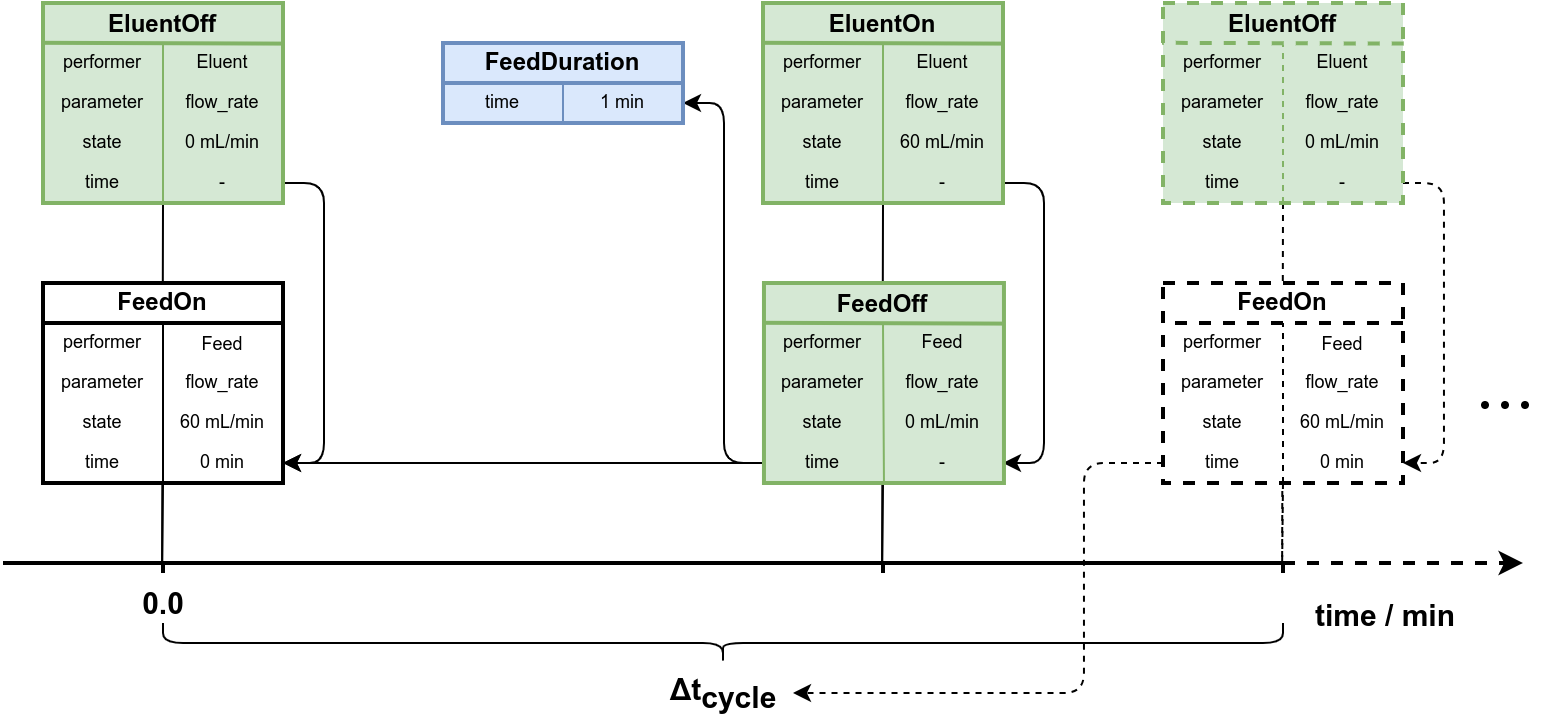
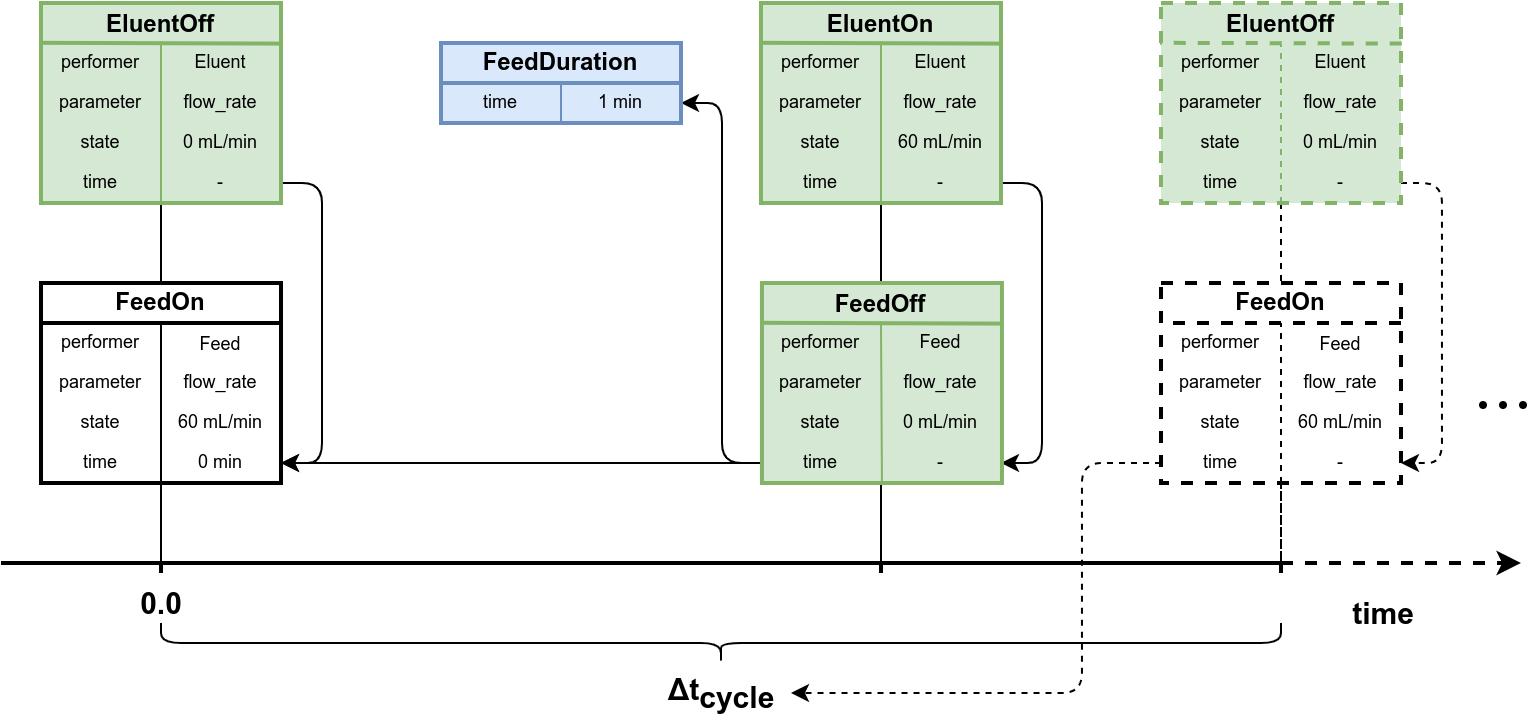
Update process

diff --git a/doc/04_implementation/01_process.md b/doc/04_implementation/01_process.md
@@ -1,18 +1,17 @@
 (process_model)=
 # Process model
 
-The starting point of process development is the setup of a {class}`~CADETProcess.processModel.Process` (see {numref}`framework_overview`) model, i.e., the specific configuration of the chromatographic process.
-This is realized using {class}`UnitOperations <CADETProcess.processModel.UnitBaseClass>` as building blocks.
-Multiple {class}`UnitOperations <CADETProcess.processModel.UnitBaseClass>` can be connected in a {class}`~CADETProcess.processModel.FlowSheet`, which describes the mass transfer between the individual units.
-Finally, dynamic {class}`Events <CADETProcess.dynamicEvents.Event>` can be defined to model dynamic changes of model parameters, including flow rates and system connectivity.
-In this chapter, an overview of the different components of the {class}`~CADETProcess.processModel.Process` is given.
+The starting point of process development is the setup of a {class}`~CADETProcess.processModel.Process` model, which represents the specific chromatographic process at hand.
+It is composed of {class}`UnitOperations <CADETProcess.processModel.UnitBaseClass>`, which define the physico-chemical behavior of individual apparatus components.
+Multiple unit operations can be connected in a {class}`~CADETProcess.processModel.FlowSheet`, which describes the mass transfer between them.
+Time-dependent changes to model parameters, including flow rates and system connectivity, are defined using {class}`Events <CADETProcess.dynamicEvents.Event>`.
+The following sections describe each of these building blocks in turn.
 
 (unit_operations)=
 ## Unit operations
 
 A {class}`UnitOperation <CADETProcess.processModel.UnitBaseClass>` represents the physico-chemical behavior of an apparatus and holds the model parameters.
-{numref}`unit_operation` displays a UML (Unified Modeling Language) diagram illustrating the unit operation's structure and relationships.
-A UML diagram is a visual representation that depicts the structure, relationships, and interactions of components or objects in a system using standardized symbols and notations {cite}`Rumbaugh2010`.
+{numref}`unit_operation` displays a UML class diagram (see {numref}`uml`) illustrating the unit operation's structure and relationships.
 
 ```{figure} ./figures/unit_operation.png
 :name: unit_operation
@@ -27,12 +26,12 @@ Both are defined as abstract interfaces where concrete implementations specify t
 For unit operations in which binding models or reactions are not modeled, the `NoBinding` and `NoReaction` classes are used.
 ```
 
-To ensure that all parts of the process have the same number of components, a {class}`~CADETProcess.processModel.ComponentSystem` needs to be configured and added to all unit operations.
-These components can also be named, which later automatically adds legends to the plot methods of CADET-Process.
+To ensure consistency across all parts of the process, a {class}`~CADETProcess.processModel.ComponentSystem` must be configured and assigned to all unit operations.
+This system defines the components involved in the separation, including their names and optionally physical properties such as charge or molar mass.
+Component names are automatically used to generate legends in CADET-Process plot methods.
 All unit operations can be associated with {class}`BindingModels <CADETProcess.processModel.BindingBaseClass>` that describe the interaction of components with surfaces or chromatographic stationary phases.
-For this purpose, a variety of equilibrium relations can be selected.
-These include the simple {class}`~CADETProcess.processModel.Linear` adsorption isotherm, competitive forms of the {class}`~CADETProcess.processModel.Langmuir` and the {class}`~CADETProcess.processModel.BiLangmuir` models, as well as the competitive {class}`~CADETProcess.processModel.StericMassAction` law.
-Moreover, {class}`ReactionModels <CADETProcess.processModel.ReactionBaseClass>` can be used to model chemical reactions.
+A variety of equilibrium relations are available, including the simple {class}`~CADETProcess.processModel.Linear` adsorption isotherm, the competitive {class}`~CADETProcess.processModel.Langmuir` model, and the {class}`~CADETProcess.processModel.StericMassAction` law (see {numref}`isotherm_models`).
+Moreover, {class}`ReactionModels <CADETProcess.processModel.ReactionBaseClass>` can be used to model chemical reactions (see {numref}`reaction_models`).
 
 (flow_sheet)=
 ## Flow sheet
@@ -41,7 +40,7 @@ The connectivity of unit operations is defined in the {class}`~CADETProcess.proc
 This class provides a directed graph structure that allows for the simple definition of configurations for multi-column or reactor-separator networks, even when they are cyclic.
 Furthermore, unit operation models can be used to model tubing and other external volumes.
 
-Every unit operation can have any number of input and output streams except for {class}`Inlets <CADETProcess.processModel.Inlet>`, which represent streams entering the system, and {class}`Outlets <CADETProcess.processModel.Outlet>`, which represent those exiting.
+Every unit operation can have any number of input and output streams, except for {class}`Inlets <CADETProcess.processModel.Inlet>` and {class}`Outlets <CADETProcess.processModel.Outlet>`, which act as system sources and sinks, respectively.
 If a unit operation has more than one input, all ingoing streams are mixed before entering the unit.
 If a unit operation has multiple outputs, the distribution of those streams needs to be specified (see {numref}`flow_demo`).
 In the following, this distribution will be denoted as `output_state`.
@@ -60,28 +59,28 @@ For streams exiting a unit operation, the percent ratio to each of its destinati
 For a more practical example, typical for batch-elution chromatography, refer to {numref}`batch_elution_flow_sheet_intro`.
 Here, the feed and eluent reservoirs can both be modeled as {class}`~CADETProcess.processModel.Inlet` unit operations, which are each connected to a column model unit operation, e.g. a {class}`~CADETProcess.processModel.LumpedRateModelWithPores`.
 This unit is then connected to an {class}`~CADETProcess.processModel.Outlet` unit, which represents the material leaving the process for further processing.
-Note that it is straightforward to also include internal recycles in the {class}`~CADETProcess.processModel.FlowSheet`, which is important for systems such as MR-SSR or SMB processes (see example in {numref}`mrssr`).
+Note that it is straightforward to also include internal recycles in the {class}`~CADETProcess.processModel.FlowSheet`, which is important for systems such as MR-SSR (see case study in {numref}`mrssr`).
 
 ### A note on flow rates
 
 In CADET-Process, the {class}`~CADETProcess.processModel.Inlet` model acts as source unit that "generates" flow.
-This flow is then transported to subsequent unit operations downstream.
-Since all fluids in CADET-Process are considered incompressible, all flow entering a unit must also exit from it.
-A notable exception is the {class}`~CADETProcess.processModel.Cstr` model which can have a variable volume.
-Consequently, if the flow rate of a {class}`~CADETProcess.processModel.Cstr` is explicitly specified, the outgoing streams can be decoupled from the ingoing streams.
-This can be useful, e.g., to model holdup tanks.
-However, it is important that the volume of a {class}`~CADETProcess.processModel.Cstr` never becomes $0$ or CADET will raise an `Exception`.
+This flow is then transported to unit operations downstream.
+Since fluids in CADET-Process are considered incompressible, all flow entering a unit must also exit from it.
+A notable exception is the {class}`~CADETProcess.processModel.Cstr` model, which can have a variable volume.
+If the flow rate of a {class}`~CADETProcess.processModel.Cstr` is explicitly specified, the outgoing streams can be decoupled from the ingoing streams, which is useful for modeling holdup tanks.
+The volume must not reach zero, as this would render the mass balance equations undefined.
 If not specified for a {class}`~CADETProcess.processModel.Cstr`, the unit is treated like all other unit operations models, and the outgoing flow rate equals the incoming flow rate.
-This can be useful, e.g., when modeling valves.
+This can be useful, e.g., when modeling holdup volumes or valves in the periphery of the chromatographic system.
 
-Since internal recycles are also possible in CADET-Process, the actual flow rates for every unit operation need to be determined before simulation.
-This calculation is performed automatically for all time sections before running a simulation while accounting for dynamic changes of flow rates and output states.
+Since CADET-Process is designed to support internal recycles, the actual flow rates for every unit operation must be resolved before simulation.
+This calculation is performed automatically before each simulation, accounting for dynamic changes to flow rates and system connectivity.
 
 (process)=
 ## Process
 
 The {class}`~CADETProcess.processModel.Process` class is used to define dynamic changes to the unit operation parameters or flow sheet connectivity.
-For this purpose, an {class}`Event <CADETProcess.dynamicEvents.Event>` class is introduced which stores the information of those changes:
+Beyond the flow sheet structure, it also specifies the total duration of one cycle, $\Delta t_{\text{cycle}}$.
+Each dynamic change is represented by an {class}`Event <CADETProcess.dynamicEvents.Event>`, which stores the following information:
 
 - `name`: Name of the event.
 - `performer`: Object performing the event (e.g., a unit operation)
@@ -89,25 +88,28 @@ For this purpose, an {class}`Event <CADETProcess.dynamicEvents.Event>` class is 
 - `state`: Value to which the parameter is changed to at event execution.
 - `time`: Time at which the event is executed.
 
-{numref}`events` illustrates the events required to model and simulate a batch-elution process.
-In addition to setting event times, it is also necessary to establish the overall duration of the process.
-As CADET-Process is designed to simulate cyclic processes as well, where the same sequence of events is repeated multiple times, this interval is referred to as the cycle time $\Delta t_{\text{cycle}}$ (see {numref}`stationarity`).
+{numref}`events` illustrates the events required to model and simulate a single batch-elution process cycle.
 
 ```{figure} ./figures/events.png
 :name: events
 
 Dynamic events of a batch-elution process.
-At $t = 0~min$, the flow of the `Feed` unit operation is turned on, while the flow of the `Eluent` unit is turned off.
-At $t = 1~min$, the flow of the `Feed` unit operation is turned off, while the flow of the `Eluent` unit is turned on.
+At $t = 0~\text{min}$, the flow of the `Feed` unit operation is set to $60 \text{mL}~\text{min}^{-1}$ on, while the flow of the `Eluent` unit is turned off.
+At $t = 1~\text{min}$, the flow of the `Feed` unit operation is turned off, while the flow of the `Eluent` unit is set to $60~\text{mL}~\text{min}^{-1}$.
+The simulation ends at $\Delta t_{\text{cycle}}$.
 ```
+
+When simulating multiple cycles, all event times are interpreted modulo $\Delta t_{\text{cycle}}$, so each event always falls within a single cycle.
+If a specified time exceeds the cycle time, it is mapped back into the interval $[0, \Delta t_{\text{cycle}})$ automatically.
 
 ### Event Dependencies
 
 To reduce complexity in process configurations within CADET-Process, dependencies between events can be specified.
 These dependencies determine the occurrence times of one event based on the timings of other events.
-This method is particularly advantageous for advanced processes as it reduces the degrees of freedom and improves usability.
-Additionally, a {class}`~CADETProcess.dynamicEvents.Duration` can be defined to denote the time interval between two events.
-For simulations encompassing more than one cycle, the event time for all events, including independent ones, also accounts for the cycle time.
+This is particularly useful in process optimization: instead of treating the times of related events as independent variables, only one needs to be optimized while the others are derived from it, reducing the number of free parameters.
+A {class}`~CADETProcess.dynamicEvents.Duration` is a special construct that carries no parameter change of its own; it acts as a named time interval between two events, serving as an anchor that other events can depend on.
+Because it represents a fixed interval rather than an absolute position, it remains meaningful when the anchor event's time changes, which makes durations well suited as optimization variables.
+For simulations spanning multiple cycles, each event's execution time is offset by the cycle number, so that the same sequence of events repeats correctly in every cycle.
 Consequently, the execution time $t_{j,n}$ of a dependent event $j$ during the $nth$ cycle is calculated using the following equation:
 
 $$
